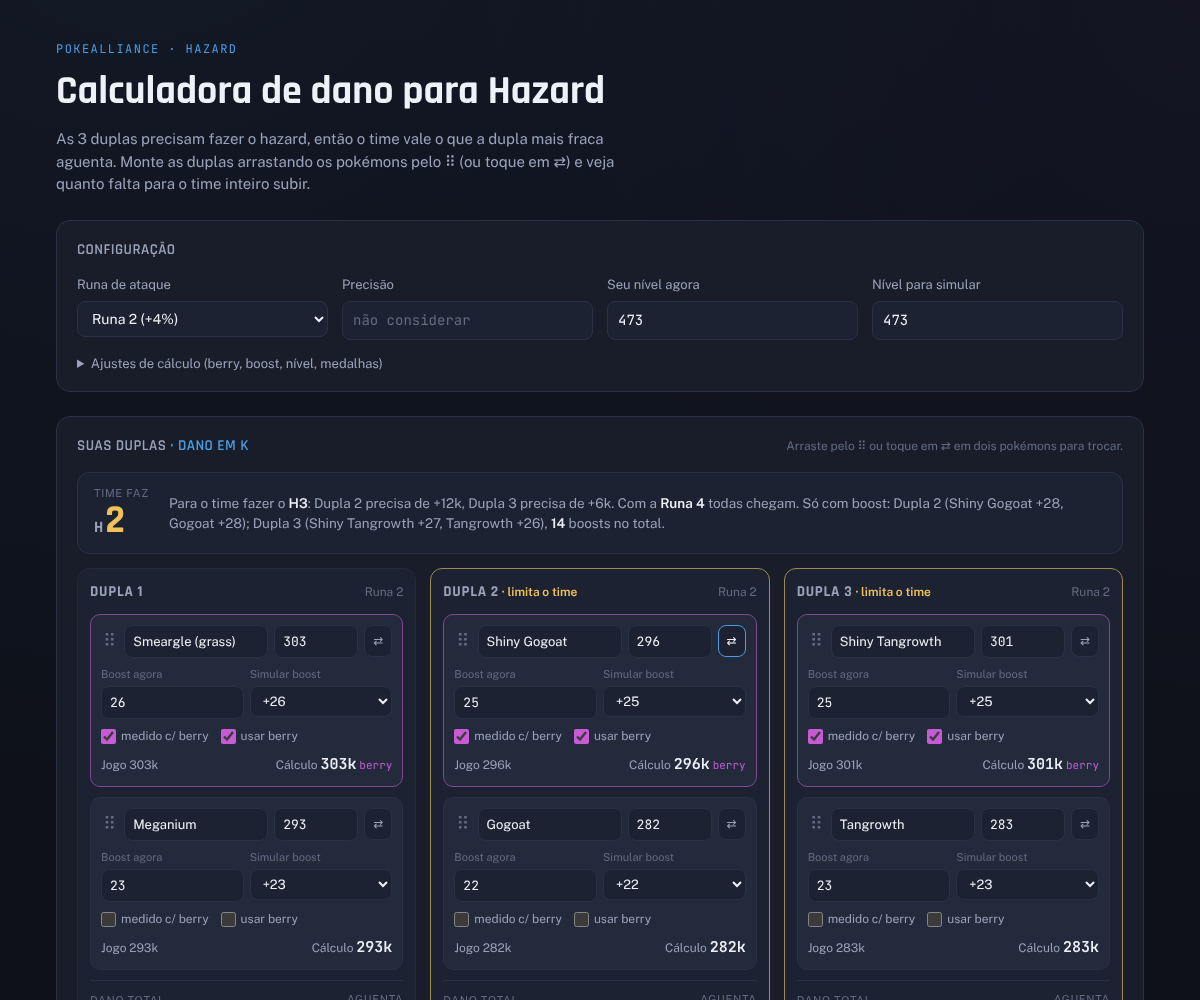
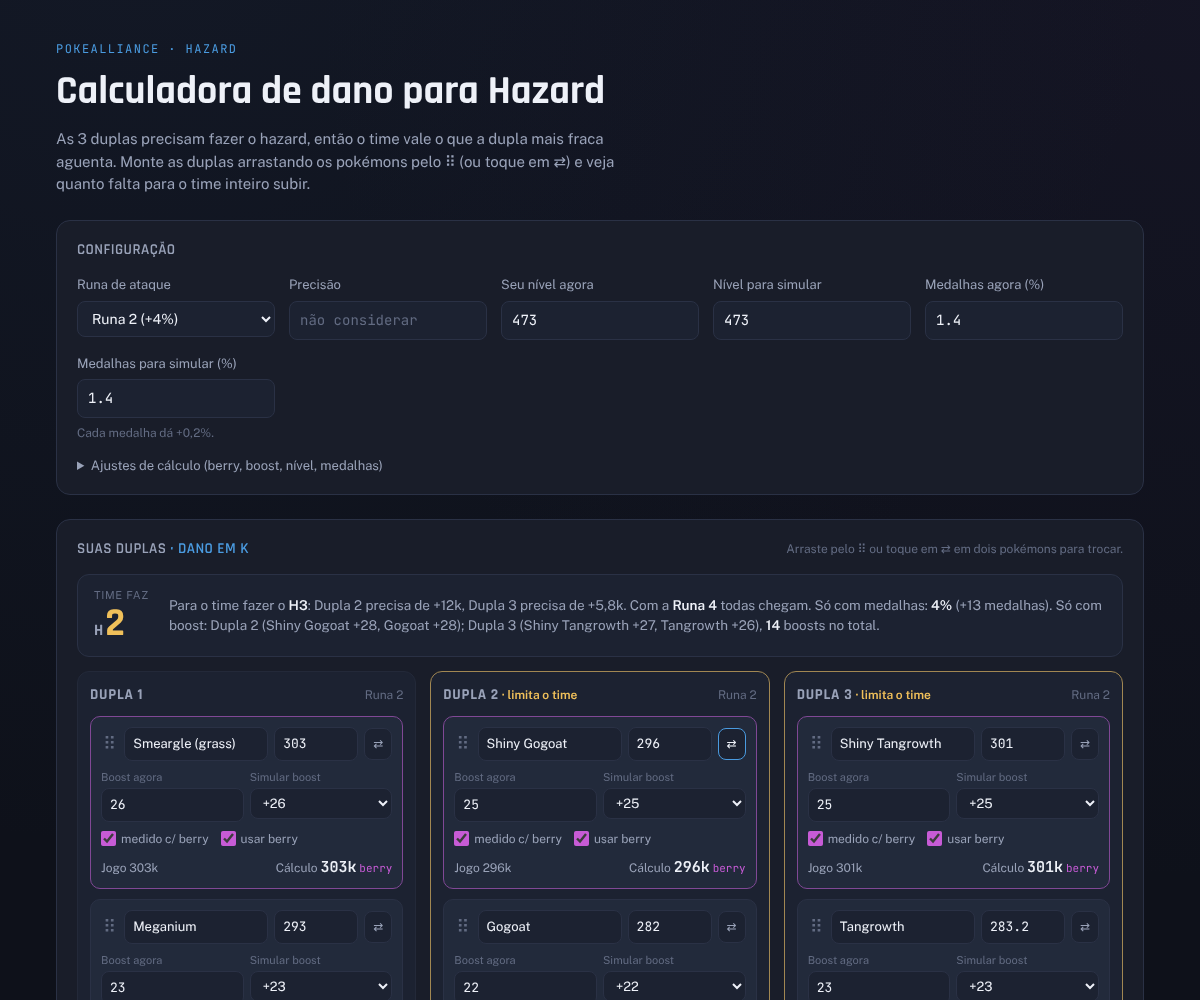
Calculadora de Hazard: medalhas calibradas
Medalhas agora e para simular (0,2% cada). Cada 1% de medalha vale
~0,81% de dano, calibrado pelo Tangrowth (280.004 → 283.179 com 1,4%).
A faixa do time mostra quantas medalhas faltam para subir de hazard.

Claude-Session: https://claude.ai/code/session_01EVcrUJmexgvZkGFKAbtGL2

diff --git a/calculadora-hazard/index.html b/calculadora-hazard/index.html
@@ -184,6 +184,13 @@
       <label class="field">Nível para simular
         <input type="number" id="levelSim" min="1" step="1">
       </label>
+      <label class="field">Medalhas agora (%)
+        <input type="number" id="medalNow" min="0" step="0.2">
+      </label>
+      <label class="field">Medalhas para simular (%)
+        <input type="number" id="medalSim" min="0" step="0.2">
+        <span class="hint">Cada medalha dá +0,2%.</span>
+      </label>
     </div>
     <details class="more" id="moreSettings">
       <summary>Ajustes de cálculo (berry, boost, nível, medalhas)</summary>
@@ -200,9 +207,9 @@
           <input type="number" id="levelPct" min="0" step="0.01">
           <span class="hint">Ainda sem medição: 0.</span>
         </label>
-        <label class="field">Bônus extra de medalhas (%)
-          <input type="number" id="medalPct" min="0" step="0.1">
-          <span class="hint">0 = as medalhas que você já tem.</span>
+        <label class="field">Dano por 1% de medalha (%)
+          <input type="number" id="medalEff" min="0" step="0.01">
+          <span class="hint">0,81%: Tangrowth 280.004 → 283.179 com 1,4%.</span>
         </label>
       </div>
     </details>
@@ -280,17 +287,20 @@ const DEFAULT_TEAM = [
   {name:'Shiny Tangrowth',  dmg:301, boost:25, measuredWithBerry:true,  useBerry:true},
   {name:'Shiny Gogoat',     dmg:296, boost:25, measuredWithBerry:true,  useBerry:true},
   {name:'Meganium',         dmg:293, boost:23, measuredWithBerry:false, useBerry:false},
-  {name:'Tangrowth',        dmg:283, boost:23, measuredWithBerry:false, useBerry:false},
+  {name:'Tangrowth',        dmg:283.2, boost:23, measuredWithBerry:false, useBerry:false},
   {name:'Gogoat',           dmg:282, boost:22, measuredWithBerry:false, useBerry:false},
 ].map(m => ({...m, boostSim: m.boost}));
 const DEFAULT_LEVEL = 473;
 const DEFAULT_BERRY = +((298/287 - 1) * 100).toFixed(2); // 3.83
 const DEFAULT_BOOST_PCT = 0.5;
+const DEFAULT_MEDAL = 1.4;     // 7 medalhas × 0,2%
+// Tangrowth: 280.004 sem medalhas, 283.179 com 1,4% → cada 1% de medalha dá ~0,81% de dano.
+const DEFAULT_MEDAL_EFF = +((283179/280004 - 1) / 1.4 * 100).toFixed(3);
 const KEY = 'pka-hazard-calc-v4';
 
 function defaults(){
   return {team: structuredClone(DEFAULT_TEAM), rune:0, precision:'', berryPct:DEFAULT_BERRY,
-    level:DEFAULT_LEVEL, levelSim:DEFAULT_LEVEL, levelPct:0, boostPct:DEFAULT_BOOST_PCT, medalPct:0, refDuo:0};
+    level:DEFAULT_LEVEL, levelSim:DEFAULT_LEVEL, levelPct:0, boostPct:DEFAULT_BOOST_PCT, medalNow:DEFAULT_MEDAL, medalSim:DEFAULT_MEDAL, medalEff:DEFAULT_MEDAL_EFF, refDuo:0};
 }
 function load(){
   try{
@@ -312,7 +322,12 @@ const clampBoost = v => Math.max(0, Math.min(MAX_BOOST, Math.round(Number(v) || 
 // ---------- Modelo de dano ----------
 function berryF(){ return 1 + pct(state.berryPct); }
 function baseDmg(m){ return (Number(m.dmg)||0) / (m.measuredWithBerry ? berryF() : 1); }
-function charF(){ return (1 + pct(state.levelPct) * ((Number(state.levelSim)||0) - (Number(state.level)||0))) * (1 + pct(state.medalPct)); }
+// Nível e medalhas simulados, relativos ao que já está no dano medido.
+function medalF(m){ return 1 + pct(state.medalEff) * (Number(m) || 0); }
+function charF(){
+  return (1 + pct(state.levelPct) * ((Number(state.levelSim)||0) - (Number(state.level)||0)))
+    * medalF(state.medalSim) / medalF(state.medalNow);
+}
 function boostGain(m, berry = m.useBerry){ return baseDmg(m) * (berry ? berryF() : 1) * pct(state.boostPct) * charF(); }
 function dmgOf(m, berry = m.useBerry, boost = m.boostSim){
   return baseDmg(m) * (berry ? berryF() : 1) * (1 + pct(state.boostPct) * (boost - m.boost)) * charF();
@@ -405,7 +420,7 @@ function swap(a, b){
 function renderSettings(){
   $('rune').innerHTML = RUNES.map((r, i) => `<option value="${i}">${r.name} (${r.bonus})</option>`).join('');
   $('rune').value = state.rune;
-  for(const k of ['precision','level','levelSim','berryPct','levelPct','boostPct','medalPct']) $(k).value = state[k];
+  for(const k of ['precision','level','levelSim','berryPct','levelPct','boostPct','medalNow','medalSim','medalEff']) $(k).value = state[k];
 }
 const boostOpts = sel => Array.from({length: MAX_BOOST + 1}, (_, b) => `<option value="${b}" ${b===sel?'selected':''}>+${b}</option>`).join('');
 function monOutHTML(m){
@@ -514,6 +529,13 @@ function renderTeamBar(){
   else {
     const parts = [`Para o time fazer o <b>H${p.target}</b>: ${p.short.map(x => `Dupla ${x.d+1} precisa de +${fmt(x.miss)}`).join(', ')}.`];
     if(p.rune > 0) parts.push(`Com a <b>${RUNES[p.rune].name}</b> todas chegam.`);
+    if(pct(state.medalEff) > 0){
+      const ratio = Math.max(...p.short.map(x => need(p.target, r) / duoInfo(x.d).dmg));
+      const x = (ratio * medalF(state.medalSim) - 1) / pct(state.medalEff);
+      const medal = Math.ceil(x / 0.2 - 1e-9) * 0.2;
+      const extra = Math.round((medal - (Number(state.medalSim)||0)) / 0.2);
+      if(extra > 0) parts.push(`Só com medalhas: <b>${medal.toLocaleString('pt-BR', {maximumFractionDigits:1})}%</b> (+${extra} medalha${extra>1?'s':''}).`);
+    }
     if(p.boosts.length && p.possible) parts.push(`Só com boost: ${p.boosts.map(b => `Dupla ${b.d+1} (${b.parts.join(', ')})`).join('; ')}, <b>${p.total}</b> boosts no total.`);
     txt = parts.join(' ');
   }
@@ -617,11 +639,12 @@ function refreshNumbers(){
 
 // ---------- Eventos ----------
 $('rune').addEventListener('change', e => { state.rune = +e.target.value; render(); });
-for(const k of ['precision','level','levelSim','berryPct','levelPct','boostPct','medalPct']){
+for(const k of ['precision','level','levelSim','berryPct','levelPct','boostPct','medalNow','medalSim','medalEff']){
   $(k).addEventListener('input', e => {
     const old = state[k];
     state[k] = e.target.value;
     if(k === 'level' && String(state.levelSim) === String(old)){ state.levelSim = e.target.value; $('levelSim').value = e.target.value; }
+    if(k === 'medalNow' && String(state.medalSim) === String(old)){ state.medalSim = e.target.value; $('medalSim').value = e.target.value; }
     render();
   });
 }
@@ -712,11 +735,11 @@ $('boostPlus5').addEventListener('click', () => { state.team.forEach(m => m.boos
 $('berryAll').addEventListener('click', () => { state.team.forEach(m => m.useBerry = true); render(); });
 $('simReset').addEventListener('click', () => {
   state.team.forEach(m => { m.boostSim = m.boost; m.useBerry = m.measuredWithBerry; });
-  state.levelSim = state.level; state.medalPct = 0;
+  state.levelSim = state.level; state.medalSim = state.medalNow;
   renderSettings(); render();
 });
 $('reset').addEventListener('click', () => {
-  state = {...state, team: structuredClone(DEFAULT_TEAM), berryPct: DEFAULT_BERRY, level: DEFAULT_LEVEL, levelSim: DEFAULT_LEVEL, medalPct: 0};
+  state = {...state, team: structuredClone(DEFAULT_TEAM), berryPct: DEFAULT_BERRY, level: DEFAULT_LEVEL, levelSim: DEFAULT_LEVEL, medalNow: DEFAULT_MEDAL, medalSim: DEFAULT_MEDAL, medalEff: DEFAULT_MEDAL_EFF};
   autoBalance(); picked = null; renderSettings(); render();
 });
 
